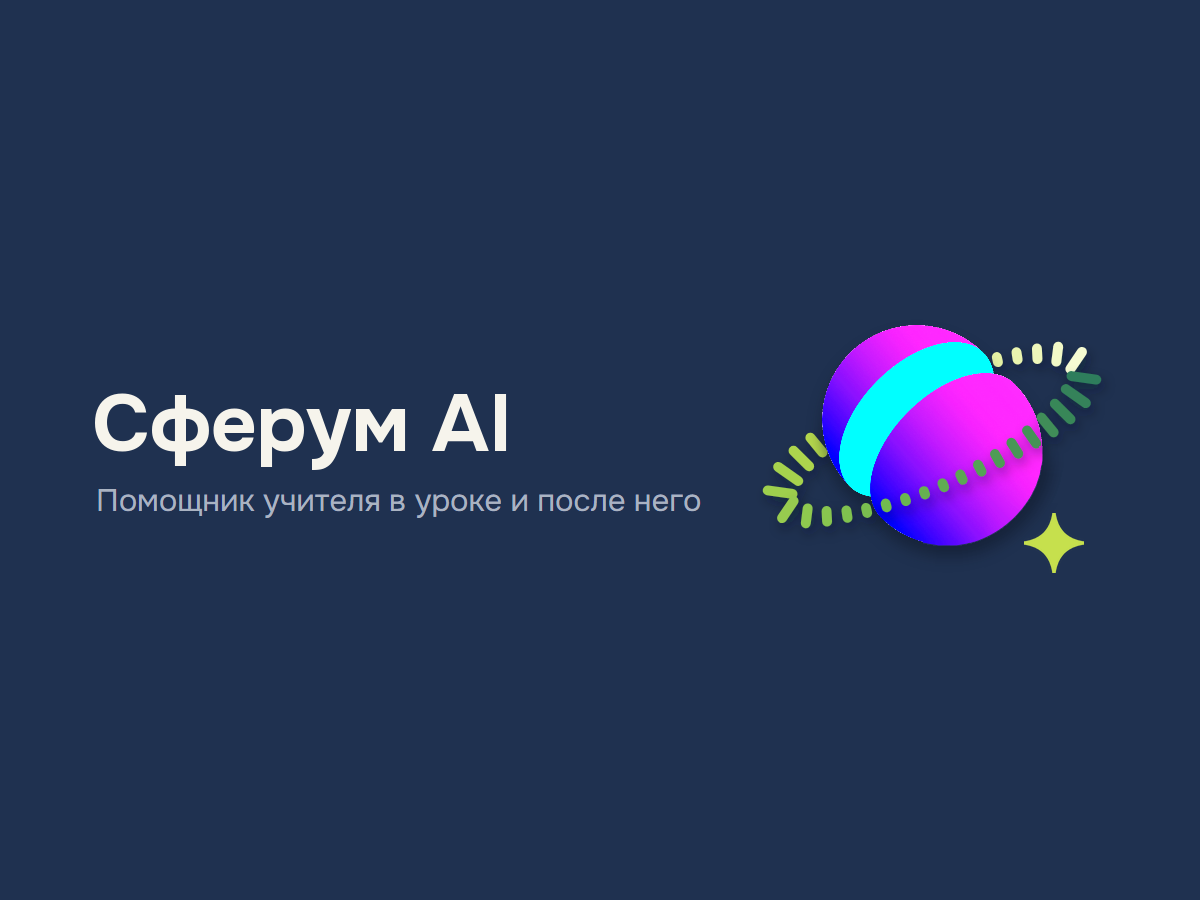
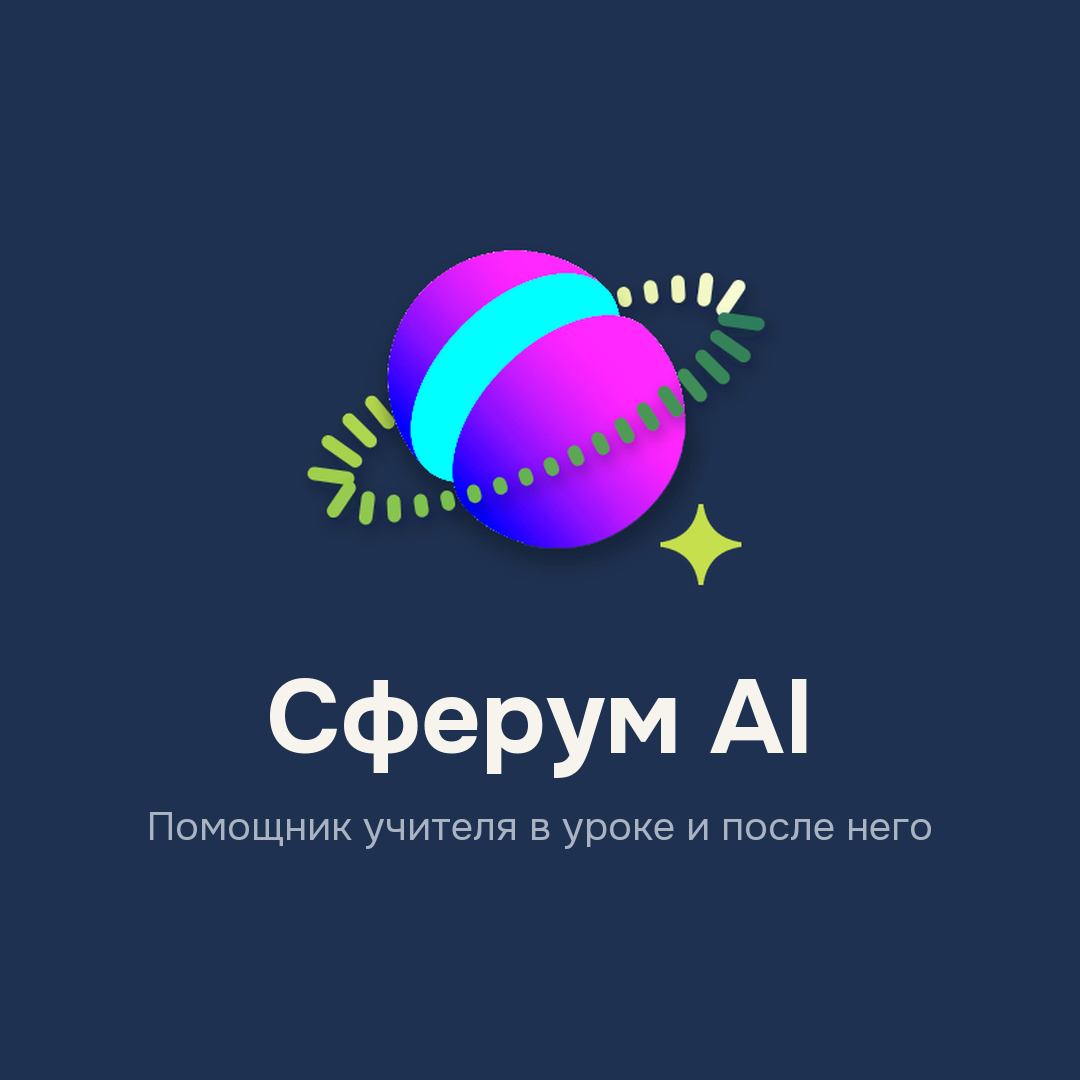
Меню бота по текущей роли; квадратная обложка /start
- «Начать» и любое сообщение: учителю — его классы, ученику — его, без двух
  меню сразу у того, кто в разных классах в разных ролях; роли нет — «Кто вы?»
- «Назад» без классов в своей роли — к выбору роли, а не по кругу
- обложка /start квадратная: MAX срезал края и у 4:3

Changed region(s): [[0.0611, 0.2178, 0.9167, 0.6533], [0.2444, 0.6222, 0.7639, 0.7156], [0.1222, 0.7467, 0.8556, 0.7778]]

diff --git a/app/bot/max_bot.py b/app/bot/max_bot.py
@@ -46,7 +46,7 @@ log = logging.getLogger(__name__)
 MINCIFRY_ROOT_CA = ROOT / "certs" / "russian_trusted_root_ca.pem"
 
 UPDATE_TYPES = "message_created,message_callback,bot_started"
-# Обложка для первого сообщения /start: 4:3, у 16:9 MAX срезает края (design/bot/start-card.png)
+# Обложка для первого сообщения /start: квадратная — MAX показывает картинку почти квадратом и срезает края (design/bot/start-card.png)
 COVER = Path(__file__).parent / "assets" / "cover.png"
 # Что показывает бот — первым сообщением на /start, до «Кто вы?»
 INTRO = (
@@ -287,17 +287,21 @@ class Bot:
             self.api.send(user_id, INTRO, begin)
 
     def greet(self, user_id: int) -> None:
+        """Меню по текущей роли — той же, что в мини-приложении: учителю его классы, ученику его.
+        Учитель, который где-то ещё и ученик, не получает оба меню сразу."""
         mine = db.classes_of(user_id)
-        teaching = [c for c, m in mine if m.role == "teacher"]
-        learning = [c for c, m in mine if m.role == "student"]
-        if not mine:
-            return self.choose_role(user_id)
-        if teaching:
-            self.teacher_menu(user_id, teaching)
-        if len(learning) == 1:
-            self.student_class(user_id, learning[0].id)
-        elif learning:
-            self.choose(user_id, [(label(c), f"class:{c.id}") for c in learning])
+        role = db.role_of(user_id)
+        if role == "teacher":
+            teaching = [c for c, m in mine if m.role == "teacher"]
+            return self.teacher_menu(user_id, teaching) if teaching else self.ask_class_name(user_id, first=True)
+        if role == "student":
+            learning = [c for c, m in mine if m.role == "student"]
+            if len(learning) == 1:
+                return self.student_class(user_id, learning[0].id)
+            if learning:
+                return self.choose(user_id, [(label(c), f"class:{c.id}") for c in learning])
+            return self.ask_code(user_id)
+        self.choose_role(user_id)
 
     def choose_role(self, user_id: int) -> None:
         """Шаг 1: кто вы. И «Выйти» в мини-приложении — выбрать роль заново.
@@ -455,8 +459,12 @@ class Bot:
         self.api.send(user_id, "Введите код класса. Его назовёт учитель.", [[callback("Назад", "back")]])
 
     def back(self, user_id: int) -> None:
-        """Нажал не ту кнопку: бот перестаёт ждать название или код и возвращает к выбору."""
+        """Нажал не ту кнопку: бот перестаёт ждать название или код и возвращает назад —
+        к меню своей роли, а если в этой роли классов нет, к выбору «Кто вы?»."""
         db.set_dialog(user_id, None)
+        role = db.role_of(user_id)
+        if not any(m.role == role for _, m in db.classes_of(user_id)):
+            return self.choose_role(user_id)
         self.greet(user_id)
 
     def code(self, user: dict, text: str) -> None:

diff --git a/tests/test_bot.py b/tests/test_bot.py
@@ -453,3 +453,19 @@ def test_start_without_cover_still_explains(bot):
     api.upload_fails = True
     b.handle(started(MARIA))
     assert api.to(MARIA)[0][0] == INTRO
+
+
+def test_menu_follows_current_role(bot):
+    # учитель, который где-то ещё и ученик, получает только меню учителя — и наоборот
+    b, api = bot
+    c = make_class(b)  # TEACHER — учитель 10А
+    other = db.create_class(MARIA, "Мария Смирнова", "7Б", "физика")
+    db.join(other.id, TEACHER, "Елена Викторовна")  # и ученик в чужом классе
+    db.set_role(TEACHER, "teacher")
+    before = len(api.to(TEACHER))
+    b.handle(press(TEACHER, "begin"))
+    new = api.to(TEACHER)[before:]
+    assert len(new) == 1 and new[0][0].startswith("Ваши классы:")
+    db.set_role(TEACHER, "student")
+    b.handle(press(TEACHER, "begin"))
+    assert api.to(TEACHER)[-1][0].startswith("Вы в классе 7Б, физика")
